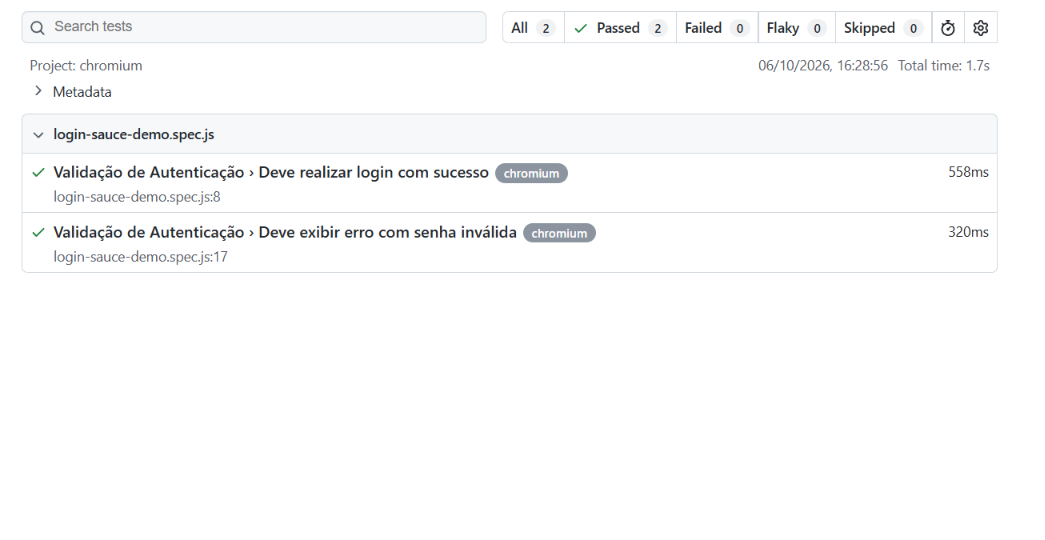
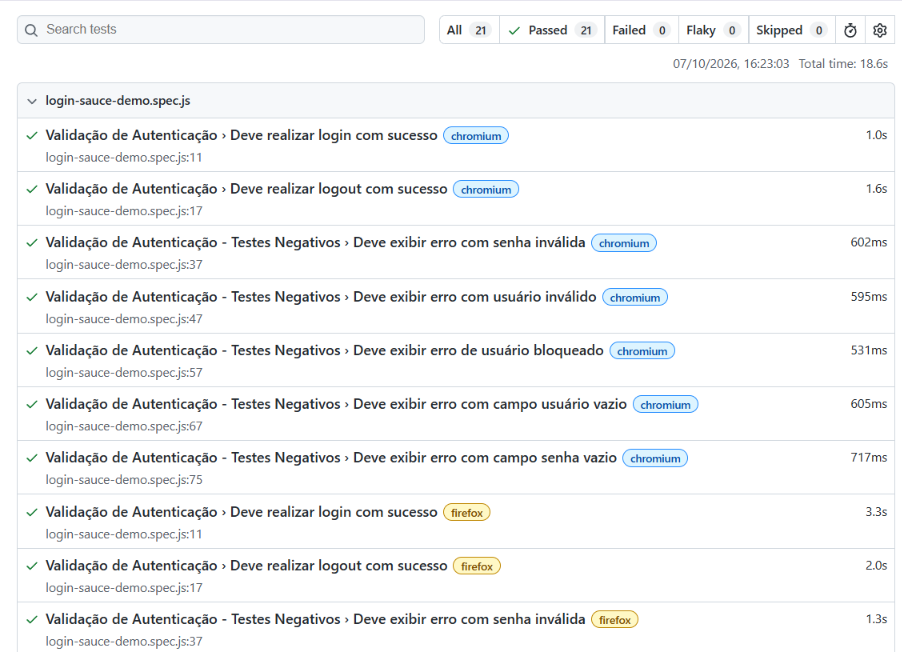
Atualiza o readme com novos prints e checks dos próximos passos

diff --git a/README.md b/README.md
@@ -75,8 +75,8 @@ Para ver o relatório: aba **Actions**, escolha a execução e baixe o artefato 
 ## Próximos passos
 
 - [ ] Adicionar Page Object Model
-- [ ] Ampliar a cobertura (logout, usuário bloqueado, campos vazios)
-- [ ] Executar em múltiplos navegadores (Firefox e WebKit)
+- [:heavy_check_mark:] Ampliar a cobertura (logout, usuário bloqueado, campos vazios)
+- [:heavy_check_mark:] Executar em múltiplos navegadores (Firefox e WebKit)
 
 ---
 
